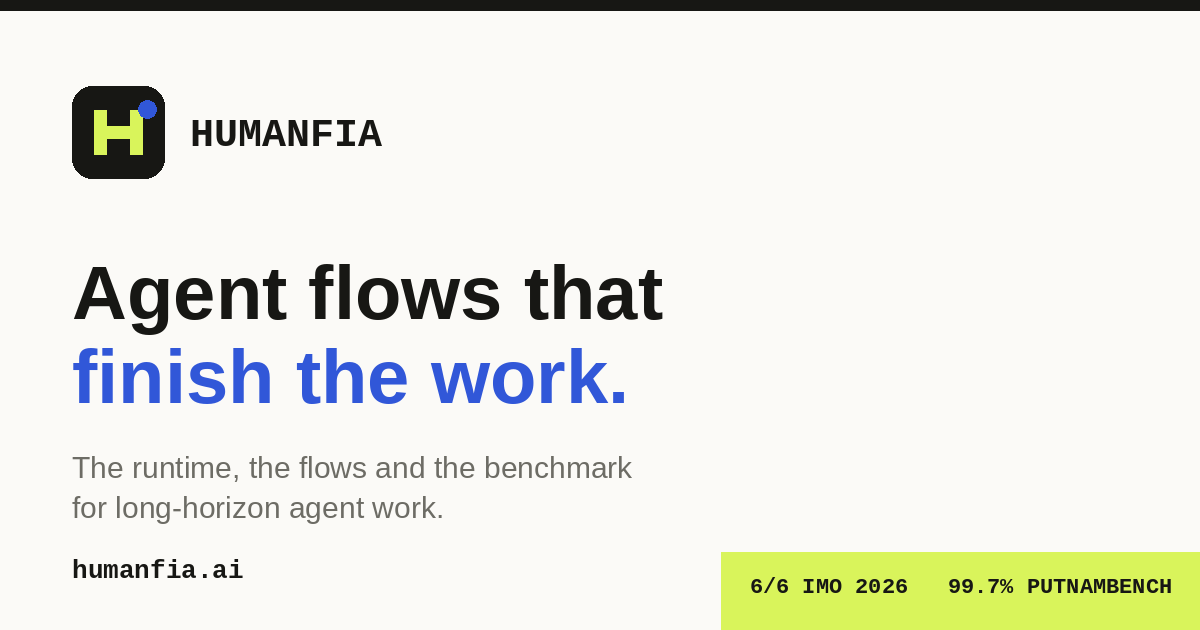
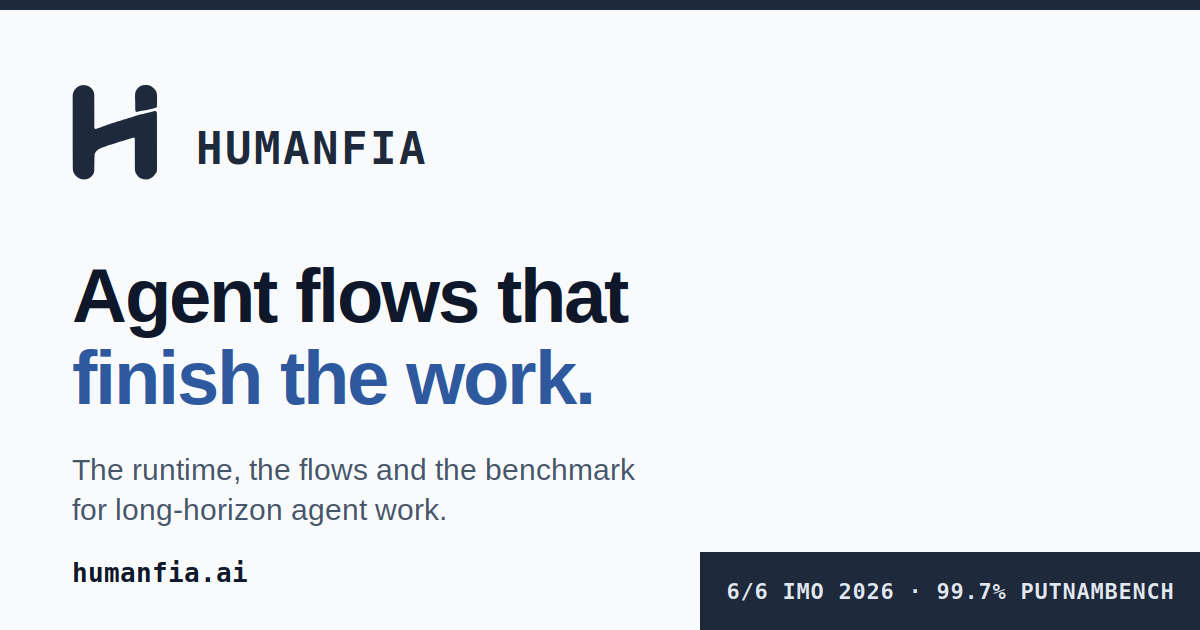
Draw the site in the new mark's palette
The logo is the slate H now, in two files rather than one: the nav logo is an <img>, so the
SVG cannot inherit the page's colour, and the dark side wants a matte, faintly blue white
rather than the theme's warm one. The favicon asks the operating system instead, since it has
no way to ask VitePress which theme is on.

With the mark being slate, the old ink/hard-blue/lime palette belonged to a different brand.
Everything is one hue now: theme/style.css holds the --hf-* tokens and nothing else names a
colour, the accent is slate's own hue with the chroma turned up, and SystemMap reads the
tokens rather than restating its hexes. Amber is the single exception, and it is spent on the
single link in the map that runs the other way -- the benchmark handing its score back.

og.png is redrawn by scripts/og.py from the logo and those tokens, so the social card cannot
quietly drift out of the palette the way it just had.

diff --git a/.vitepress/theme/style.css b/.vitepress/theme/style.css
@@ -3,33 +3,59 @@
  * the theme has no component for. Everything here is either a VitePress variable being set or
  * a class the markdown writes by hand -- there is no second design system to keep in step.
  *
- * The palette is the one the previous site was drawn in: ink, paper, a hard blue and a lime.
+ * The palette is one hue. The mark is slate -- a blue-grey that is near-black on paper and a
+ * matte, faintly blue white in the dark -- and the accent is that same hue with the chroma
+ * turned up, so a link looks like it was cut from the logo. Amber is the only other colour on
+ * the site, and it is spent on one thing: the arrow in the system map that runs the other way.
+ *
+ * These are the tokens. Nothing below this block, and nothing in a component, should name a
+ * colour that is not here.
  */
 
 :root {
-  --hf-blue: #3157d8;
-  --hf-blue-dark: #2444b4;
-  --hf-lime: #d9f45b;
-  --hf-ink: #171714;
+  /* Slate: the mark's own colour, and the ink under everything. */
+  --hf-slate: #1e293b;
+  --hf-slate-pale: #e2e8f0;
+  --hf-ink: #0f172a;
+
+  /* The accent: slate's hue, more chroma. */
+  --hf-blue: #2e599e;
+  --hf-blue-dark: #24467c;
+  --hf-blue-mid: #6e93cf;
+  --hf-blue-light: #8daee2;
+  --hf-blue-pale: #b6cbec;
+
+  /* The one warm colour. Used once, on purpose. */
+  --hf-amber: #b45309;
+  --hf-amber-light: #efb358;
+
+  /* The darkest text is the mark's family too, so a heading and the logo above it are the same
+     colour temperature. The softer two are the theme's, which are already cool enough. */
+  --vp-c-text-1: var(--hf-ink);
 
   --vp-c-brand-1: var(--hf-blue-dark);
   --vp-c-brand-2: var(--hf-blue);
   --vp-c-brand-3: var(--hf-blue);
-  --vp-c-brand-soft: rgba(49, 87, 216, 0.14);
+  --vp-c-brand-soft: color-mix(in srgb, var(--hf-blue) 14%, transparent);
 
   --vp-home-hero-name-color: transparent;
-  --vp-home-hero-name-background: -webkit-linear-gradient(120deg, #3157d8 20%, #7b3fd8);
-  --vp-home-hero-image-background-image: linear-gradient(-45deg, #3157d8 40%, #d9f45b 100%);
+  --vp-home-hero-name-background: -webkit-linear-gradient(120deg, var(--hf-slate) 25%, var(--hf-blue));
+  --vp-home-hero-image-background-image: linear-gradient(-45deg, var(--hf-blue) 30%, var(--hf-blue-pale) 100%);
   --vp-home-hero-image-filter: blur(56px);
 }
 
 .dark {
-  --vp-c-brand-1: #8ea6ff;
-  --vp-c-brand-2: #6d8bff;
-  --vp-c-brand-3: #3157d8;
-  --vp-c-brand-soft: rgba(110, 139, 255, 0.16);
+  /* The theme's own is a warm white; the logo's is not, and one of them had to give. */
+  --vp-c-text-1: var(--hf-slate-pale);
 
-  --vp-home-hero-name-background: -webkit-linear-gradient(120deg, #8ea6ff 20%, #d9f45b);
+  --vp-c-brand-1: var(--hf-blue-light);
+  --vp-c-brand-2: var(--hf-blue-mid);
+  --vp-c-brand-3: var(--hf-blue);
+  --vp-c-brand-soft: color-mix(in srgb, var(--hf-blue-light) 16%, transparent);
+
+  /* Matte white into the accent -- the two colours the logo is drawn in, in that order. */
+  --vp-home-hero-name-background: -webkit-linear-gradient(120deg, var(--hf-slate-pale) 25%, var(--hf-blue-light));
+  --vp-home-hero-image-background-image: linear-gradient(-45deg, var(--hf-blue-dark) 30%, var(--hf-blue) 100%);
 }
 
 /* The numbers we lead with. One <div> per number, a <b> and a <span> inside it. */

diff --git a/.vitepress/theme/components/SystemMap.vue b/.vitepress/theme/components/SystemMap.vue
@@ -428,29 +428,33 @@ const hotspots = [
   outline: 2px solid var(--map-accent);
 }
 
-/* Palette. The map is drawn in the site's blue and lime, one step brighter in the dark. */
+/* Palette. Everything comes from the site's tokens in theme/style.css -- the map names shapes,
+   not colours. `signal` is the amber one, and it marks the single link that runs the other way:
+   the benchmark handing its score back to the runtime. */
 .map {
   --map-ink: var(--vp-c-text-1);
   --map-line: var(--vp-c-divider);
-  --map-accent: #3157d8;
-  --map-accent-soft: rgba(49, 87, 216, 0.18);
-  --map-lime: #a9c400;
+  --map-accent: var(--hf-blue);
+  --map-accent-soft: color-mix(in srgb, var(--hf-blue) 18%, transparent);
+  --map-signal: var(--hf-amber);
   --map-card: var(--vp-c-bg);
-  --map-cast: rgba(49, 87, 216, 0.14);
+  --map-cast: color-mix(in srgb, var(--hf-blue) 14%, transparent);
 }
 
 :global(.dark) .map {
-  --map-accent: #8ea6ff;
-  --map-accent-soft: rgba(142, 166, 255, 0.16);
-  --map-lime: #d9f45b;
+  --map-accent: var(--hf-blue-light);
+  --map-accent-soft: color-mix(in srgb, var(--hf-blue-light) 16%, transparent);
+  --map-signal: var(--hf-amber-light);
   --map-card: var(--vp-c-bg-soft);
-  --map-cast: rgba(142, 166, 255, 0.16);
+  --map-cast: color-mix(in srgb, var(--hf-blue-light) 16%, transparent);
 }
 
-.core-stop-1 { stop-color: #6d8bff; }
-.core-stop-2 { stop-color: #2444b4; }
-:global(.dark) .core-stop-1 { stop-color: #8ea6ff; }
-:global(.dark) .core-stop-2 { stop-color: #2b4bc4; }
+/* The core disc, lit from the top left. Light to dark either way round, so the white mark on
+   top of it stays legible in both themes. */
+.core-stop-1 { stop-color: var(--hf-blue); }
+.core-stop-2 { stop-color: var(--hf-blue-dark); }
+:global(.dark) .core-stop-1 { stop-color: var(--hf-blue-mid); }
+:global(.dark) .core-stop-2 { stop-color: var(--hf-blue-dark); }
 
 .halo-stop-1 { stop-color: var(--map-accent); stop-opacity: 0.09; }
 .halo-stop-2 { stop-color: var(--map-accent); stop-opacity: 0; }
@@ -463,7 +467,7 @@ const hotspots = [
 }
 
 .arrowhead.accent {
-  fill: var(--map-lime);
+  fill: var(--map-signal);
 }
 
 /* Orbit */
@@ -627,7 +631,7 @@ const hotspots = [
 }
 
 .link.accent path {
-  stroke: var(--map-lime);
+  stroke: var(--map-signal);
   stroke-width: 2.2;
   stroke-dasharray: 7 7;
   opacity: 0.75;
@@ -643,7 +647,7 @@ const hotspots = [
 }
 
 .link.accent .packet {
-  fill: var(--map-lime);
+  fill: var(--map-signal);
 }
 
 .back-label {
@@ -654,7 +658,7 @@ const hotspots = [
 }
 
 .back-label.accent {
-  fill: var(--map-lime);
+  fill: var(--map-signal);
   font-weight: 700;
 }
 

diff --git a/scripts/og.py b/scripts/og.py
@@ -1,0 +1,68 @@
+"""Draws public/og.png -- the card that shows up when a link to the site is pasted somewhere.
+
+    uv run --with cairosvg scripts/og.py
+
+The card is laid out as an SVG here and rasterised, rather than kept as a binary nobody can
+regenerate: the H comes out of public/logo.svg itself, and the colours are the tokens from
+.vitepress/theme/style.css, so a palette change is a two-line edit and a re-run rather than a
+trip through a drawing program. Crawlers want a raster, hence the PNG at the end.
+"""
+
+import re
+from pathlib import Path
+
+import cairosvg
+
+ROOT = Path(__file__).resolve().parent.parent
+
+# The palette, from .vitepress/theme/style.css. Keep in step with it.
+SLATE = "#1e293b"
+INK = "#0f172a"
+PALE = "#e2e8f0"
+BLUE = "#2e599e"
+BODY = "#475569"
+PAPER = "#f8fafc"
+
+W, H = 1200, 630
+
+SANS = "Liberation Sans, Arial, sans-serif"
+MONO = "DejaVu Sans Mono, monospace"
+
+
+def mark(x: float, y: float, height: float) -> str:
+    """The logo, lifted straight out of public/logo.svg and placed at a size."""
+    source = (ROOT / "public" / "logo.svg").read_text()
+    body = re.search(r"(<g fill=.*</g>)", source, re.S).group(1)
+    scale = height / 57  # the logo's viewBox is 51x57
+    return f'<g transform="translate({x} {y}) scale({scale})">{body}</g>'
+
+
+svg = f"""<svg xmlns="http://www.w3.org/2000/svg" width="{W}" height="{H}" viewBox="0 0 {W} {H}">
+  <rect width="{W}" height="{H}" fill="{PAPER}"/>
+  <rect width="{W}" height="10" fill="{SLATE}"/>
+
+  {mark(72, 84, 96)}
+  <text x="196" y="164" font-family="{MONO}" font-size="44" font-weight="bold"
+        letter-spacing="3" fill="{SLATE}">HUMANFIA</text>
+
+  <text x="72" y="322" font-family="{SANS}" font-size="76" font-weight="bold"
+        letter-spacing="-2" fill="{INK}">Agent flows that</text>
+  <text x="72" y="404" font-family="{SANS}" font-size="76" font-weight="bold"
+        letter-spacing="-2" fill="{BLUE}">finish the work.</text>
+
+  <text x="72" y="480" font-family="{SANS}" font-size="30" fill="{BODY}">The runtime, the flows and the benchmark</text>
+  <text x="72" y="520" font-family="{SANS}" font-size="30" fill="{BODY}">for long-horizon agent work.</text>
+
+  <text x="72" y="582" font-family="{MONO}" font-size="26" font-weight="bold"
+        fill="{INK}">humanfia.ai</text>
+
+  <!-- Slate and the matte white, in that order: the two colours the logo is drawn in. -->
+  <rect x="700" y="552" width="{W - 700}" height="{H - 552}" fill="{SLATE}"/>
+  <text x="950" y="599" font-family="{MONO}" font-size="22" font-weight="bold"
+        letter-spacing="1" text-anchor="middle" fill="{PALE}">6/6 IMO 2026 · 99.7% PUTNAMBENCH</text>
+</svg>
+"""
+
+out = ROOT / "public" / "og.png"
+cairosvg.svg2png(bytestring=svg.encode(), write_to=str(out), output_width=W, output_height=H)
+print(f"wrote {out}")

diff --git a/README.md b/README.md
@@ -31,11 +31,25 @@ that a link's *page* exists and stops there.
 ├── results/            what has shipped, and how to check it
 ├── about/              who we are
 ├── blog/               one Markdown file per post
-├── public/             CNAME, favicon, robots.txt
+├── public/             CNAME, the logo and favicon, og.png, robots.txt
+├── scripts/            og.py, which draws the social card
 └── .vitepress/
     ├── config.mts      nav, sidebar, and the RSS feed
     ├── anchors.mjs     the #fragment check
     └── theme/          the default theme, plus this site's palette and components
+```
+
+## The palette
+
+One hue. `.vitepress/theme/style.css` holds every colour the site uses as an `--hf-*` token;
+components read those and name none of their own. The logo is the same slate on paper
+(`public/logo.svg`) and a matte, faintly blue white in the dark (`public/logo-dark.svg`) —
+two files rather than one, because the nav logo is an `<img>` and cannot inherit `currentColor`.
+
+The social card is generated from the same two sources rather than drawn by hand:
+
+```sh
+uv run --with cairosvg scripts/og.py
 ```
 
 ## Writing a post

diff --git a/index.md b/index.md
@@ -8,7 +8,8 @@ hero:
   text: Agent flows that finish the work
   tagline: We build the runtime, the flows and the benchmark for long-horizon agent work — then point them at problems where being right is checkable. GPU kernels. Olympiad mathematics. Week-long engineering.
   image:
-    src: /logo.svg
+    light: /logo.svg
+    dark: /logo-dark.svg
     alt: Humanfia
   actions:
     - theme: brand
